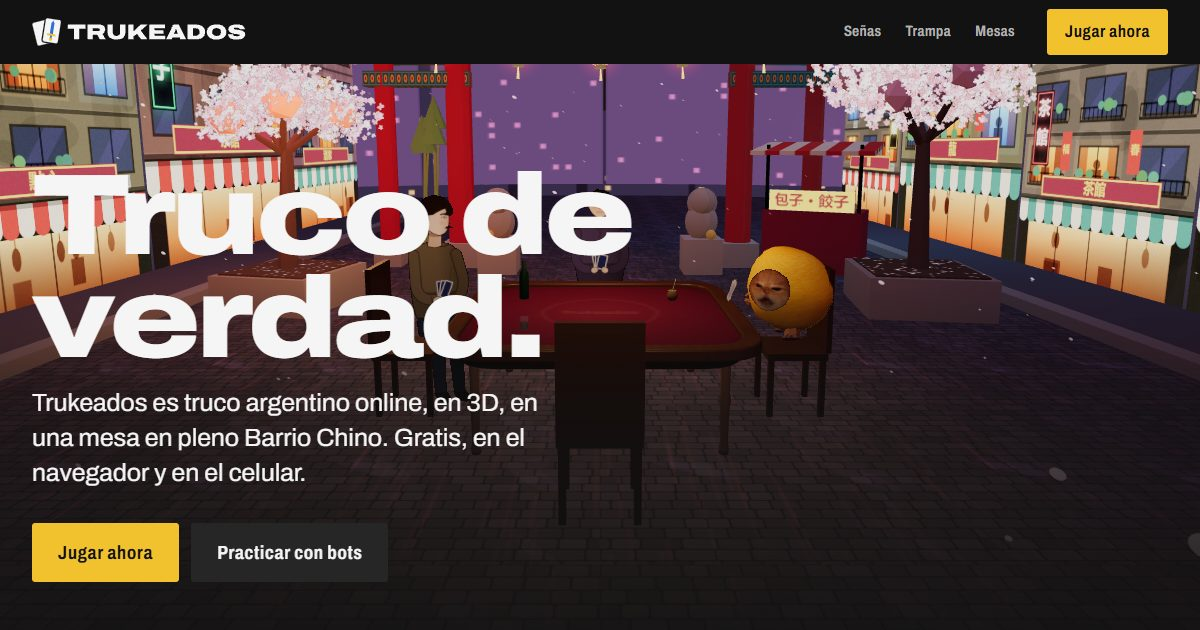
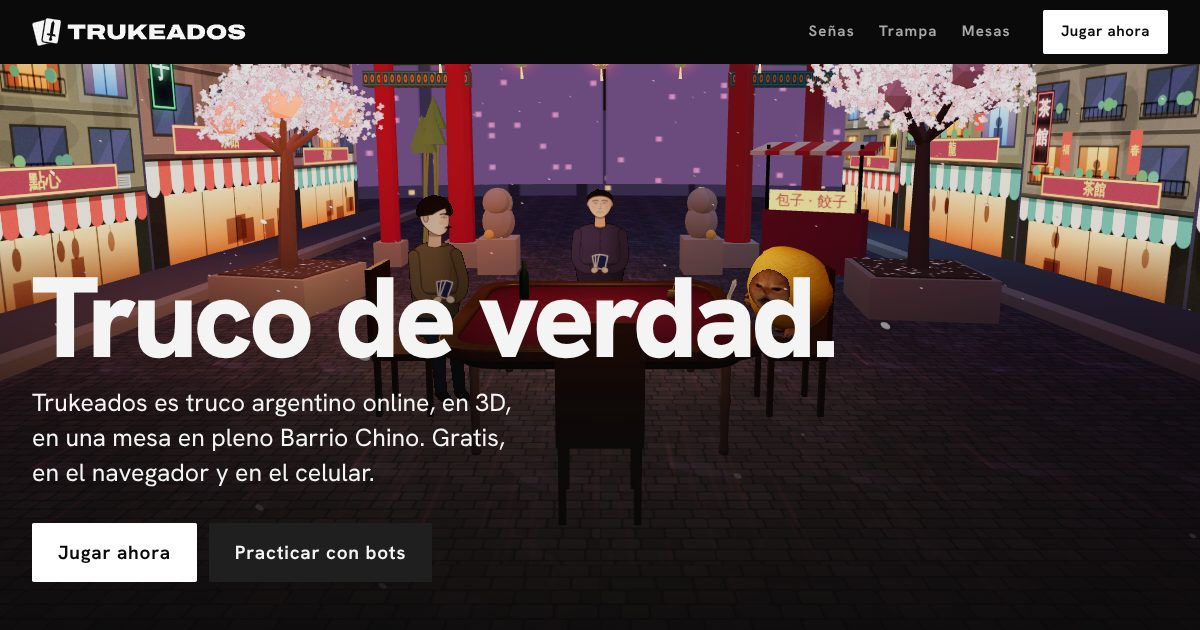
Fase 3: íconos, theme-color e imagen para compartir
- favicon.svg del juego (blanco y negro) como ícono de la pestaña y logo del
  JSON-LD; sync-game.mjs lo copia del juego.
- theme-color #0a0a0a.
- capture.mjs arma el ícono de iOS desde favicon.svg; og.jpg y
  apple-touch-icon.png regenerados.
- Comentarios sin "te mira en oro".

Claude-Session: https://claude.ai/code/session_01CcMx9wwXPnxNVDufpy6ZJp

diff --git a/index.html b/index.html
@@ -4,7 +4,7 @@
     <meta charset="utf-8" />
     <meta name="viewport" content="width=device-width, initial-scale=1, viewport-fit=cover" />
     <meta name="color-scheme" content="dark" />
-    <meta name="theme-color" content="#121212" />
+    <meta name="theme-color" content="#0a0a0a" />
     <title>Trukeados · Truco argentino online en 3D, gratis</title>
     <meta name="description" content="Jugá al truco argentino online en 3D, gratis: 1 vs 1, 2 vs 2 y 3 vs 3, con señas que se hacen con la cara, envido, flor, ranking, salas con amigos, tu personaje, nueve lugares y paños dibujados a mano. En el navegador y en el celular." />
     <meta name="keywords" content="Trukeados, truco, truco argentino, truco online, truco argentino online, truco 3d, truco argentino 3d, jugar al truco, truco gratis, truco con amigos, truco 2 vs 2, truco 3 vs 3, señas del truco, envido, flor" />
@@ -12,7 +12,7 @@
     <link rel="canonical" href="%SITE%" />
     <link rel="alternate" hreflang="es" href="%SITE%" />
     <link rel="alternate" hreflang="x-default" href="%SITE%" />
-    <link rel="icon" href="/brand/icono-app.svg" type="image/svg+xml" />
+    <link rel="icon" href="/favicon.svg" type="image/svg+xml" />
     <link rel="apple-touch-icon" href="/apple-touch-icon.png" />
 
     <meta property="og:type" content="website" />
@@ -29,7 +29,7 @@
     <meta name="twitter:title" content="Trukeados · Truco argentino online en 3D, gratis" />
     <meta name="twitter:description" content="Truco argentino en 3D, gratis. Las señas se hacen con la cara: si te miran, te las cazan." />
     <meta name="twitter:image" content="%OG_IMAGE%" />
-    <script type="application/ld+json">[{"@context":"https://schema.org","@type":"VideoGame","name":"Trukeados","alternateName":["Trukeados: truco argentino online","Truco argentino 3D"],"url":"https://trukeados.com/","sameAs":["https://game.trukeados.com/"],"image":"https://trukeados.com/og.jpg","description":"Truco argentino online en 3D y gratis: 1 vs 1, 2 vs 2 y 3 vs 3, con señas que se hacen con la cara y solo ve quien te mira, envido, flor, pica-pica, ranking por ELO, salas privadas con amigos, bots para practicar, personajes, nueve lugares y paños dibujados a mano.","inLanguage":"es-AR","genre":["Juego de cartas","Truco","Multijugador"],"gamePlatform":["Navegador web","Android","iOS","Windows","macOS"],"applicationCategory":"Game","operatingSystem":"Web","playMode":["MultiPlayer","SinglePlayer"],"numberOfPlayers":{"@type":"QuantitativeValue","minValue":2,"maxValue":6},"isAccessibleForFree":true,"offers":{"@type":"Offer","price":"0","priceCurrency":"ARS","availability":"https://schema.org/InStock","url":"https://game.trukeados.com/"},"publisher":{"@type":"Organization","name":"Trukeados","url":"https://trukeados.com/","logo":"https://trukeados.com/brand/icono-app.svg"},"keywords":"truco, truco argentino, truco online, truco argentino online, truco 3d, truco argentino 3d, jugar truco, truco gratis, truco con amigos"},{"@context":"https://schema.org","@type":"WebSite","name":"Trukeados","alternateName":"Truco argentino online en 3D","url":"https://trukeados.com/","inLanguage":"es-AR"},{"@context":"https://schema.org","@type":"Organization","name":"Trukeados","url":"https://trukeados.com/","logo":"https://trukeados.com/brand/icono-app.svg"},{"@context":"https://schema.org","@type":"FAQPage","mainEntity":[{"@type":"Question","name":"¿Dónde juego al truco argentino online?","acceptedAnswer":{"@type":"Answer","text":"En Trukeados (game.trukeados.com): creás tu cuenta gratis con Google o con tu mail y jugás partida rápida, con amigos en una sala privada o contra bots."}},{"@type":"Question","name":"¿Trukeados es gratis?","acceptedAnswer":{"@type":"Answer","text":"Sí. Se juega gratis en el navegador, en la computadora y en el celular, sin descargar nada. Las monedas para la tienda se ganan jugando."}},{"@type":"Question","name":"¿Qué tiene el truco argentino en 3D de Trukeados?","acceptedAnswer":{"@type":"Answer","text":"Te sentás a la mesa en primera persona, en un bar notable, una parrilla, el Barrio Chino o la Noche estrellada, con tu personaje. Las señas se hacen con la cara y solo las ve quien te está mirando."}},{"@type":"Question","name":"¿Se puede jugar de a 4 o de a 6?","acceptedAnswer":{"@type":"Answer","text":"Sí: 1 vs 1, 2 vs 2 y 3 vs 3, a 15 o a 30 puntos, con flor o sin flor y pica-pica en 3 vs 3."}}]}]</script>
+    <script type="application/ld+json">[{"@context":"https://schema.org","@type":"VideoGame","name":"Trukeados","alternateName":["Trukeados: truco argentino online","Truco argentino 3D"],"url":"https://trukeados.com/","sameAs":["https://game.trukeados.com/"],"image":"https://trukeados.com/og.jpg","description":"Truco argentino online en 3D y gratis: 1 vs 1, 2 vs 2 y 3 vs 3, con señas que se hacen con la cara y solo ve quien te mira, envido, flor, pica-pica, ranking por ELO, salas privadas con amigos, bots para practicar, personajes, nueve lugares y paños dibujados a mano.","inLanguage":"es-AR","genre":["Juego de cartas","Truco","Multijugador"],"gamePlatform":["Navegador web","Android","iOS","Windows","macOS"],"applicationCategory":"Game","operatingSystem":"Web","playMode":["MultiPlayer","SinglePlayer"],"numberOfPlayers":{"@type":"QuantitativeValue","minValue":2,"maxValue":6},"isAccessibleForFree":true,"offers":{"@type":"Offer","price":"0","priceCurrency":"ARS","availability":"https://schema.org/InStock","url":"https://game.trukeados.com/"},"publisher":{"@type":"Organization","name":"Trukeados","url":"https://trukeados.com/","logo":"https://trukeados.com/favicon.svg"},"keywords":"truco, truco argentino, truco online, truco argentino online, truco 3d, truco argentino 3d, jugar truco, truco gratis, truco con amigos"},{"@context":"https://schema.org","@type":"WebSite","name":"Trukeados","alternateName":"Truco argentino online en 3D","url":"https://trukeados.com/","inLanguage":"es-AR"},{"@context":"https://schema.org","@type":"Organization","name":"Trukeados","url":"https://trukeados.com/","logo":"https://trukeados.com/favicon.svg"},{"@context":"https://schema.org","@type":"FAQPage","mainEntity":[{"@type":"Question","name":"¿Dónde juego al truco argentino online?","acceptedAnswer":{"@type":"Answer","text":"En Trukeados (game.trukeados.com): creás tu cuenta gratis con Google o con tu mail y jugás partida rápida, con amigos en una sala privada o contra bots."}},{"@type":"Question","name":"¿Trukeados es gratis?","acceptedAnswer":{"@type":"Answer","text":"Sí. Se juega gratis en el navegador, en la computadora y en el celular, sin descargar nada. Las monedas para la tienda se ganan jugando."}},{"@type":"Question","name":"¿Qué tiene el truco argentino en 3D de Trukeados?","acceptedAnswer":{"@type":"Answer","text":"Te sentás a la mesa en primera persona, en un bar notable, una parrilla, el Barrio Chino o la Noche estrellada, con tu personaje. Las señas se hacen con la cara y solo las ve quien te está mirando."}},{"@type":"Question","name":"¿Se puede jugar de a 4 o de a 6?","acceptedAnswer":{"@type":"Answer","text":"Sí: 1 vs 1, 2 vs 2 y 3 vs 3, a 15 o a 30 puntos, con flor o sin flor y pica-pica en 3 vs 3."}}]}]</script>
   </head>
   <body>
     <div id="root"></div>

diff --git a/src/content/site.ts b/src/content/site.ts
@@ -155,7 +155,7 @@ export const site = {
   name: 'Trukeados',
   tagline: 'Truco argentino online, en 3D.',
   cta: { primary: 'Jugar ahora', secondary: 'Practicar con bots' },
-  /** Placa de nombre del juego (la que va arriba de cada jugador): el chip en oro cuando alguien te mira. */
+  /** Placa de nombre del juego (la que va arriba de cada jugador): el chip «te mira» cuando alguien te mira. */
   teMira: 'te mira',
   nav: [
     { id: 'senas', label: 'Señas' },

diff --git a/src/three/world/World.tsx b/src/three/world/World.tsx
@@ -192,7 +192,7 @@ export function World() {
     });
     redraw(actors, needs);
 
-    // Sentado: aparecen las placas de nombre del juego con "te mira" en oro. Es el instante dorado.
+    // Sentado: aparecen las placas de nombre del juego con "te mira". Es el instante en que alguien te mira.
     const plate = smoothstep(fx.seated, 0.55, 0.95);
     const { width: w, height: h } = state.size;
     PLATES.forEach((who, k) => {
